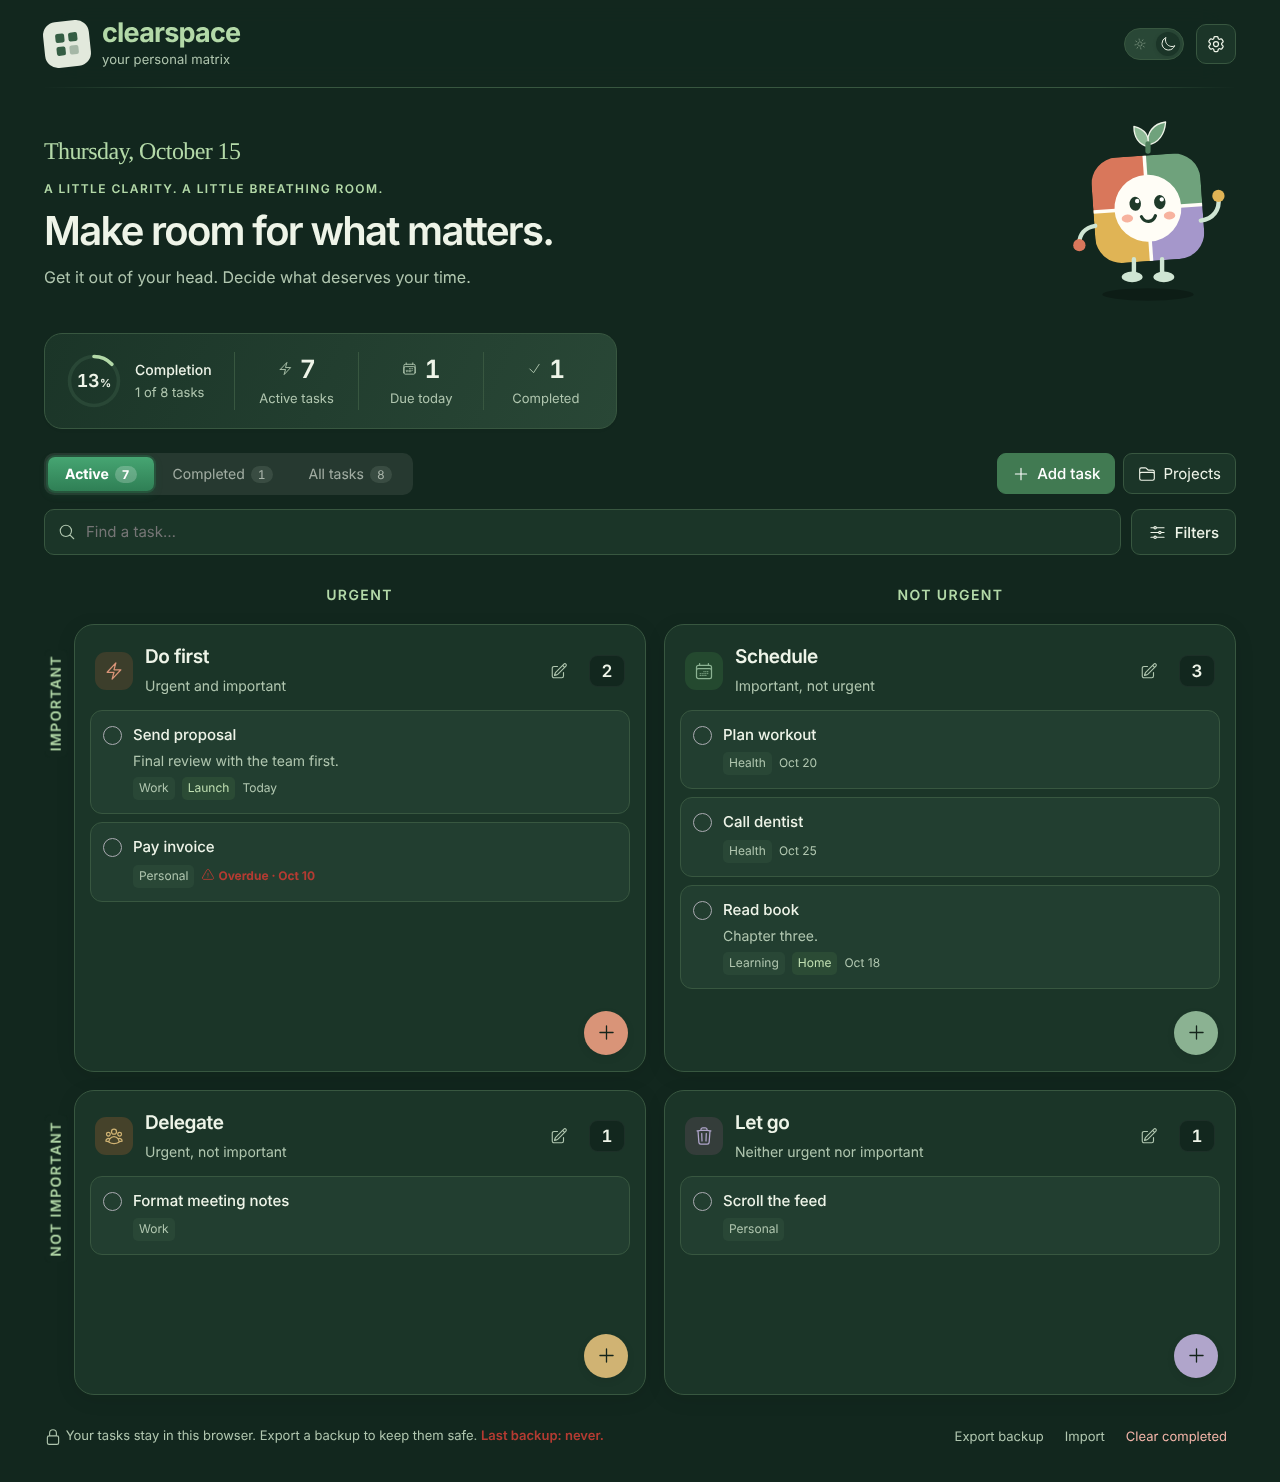
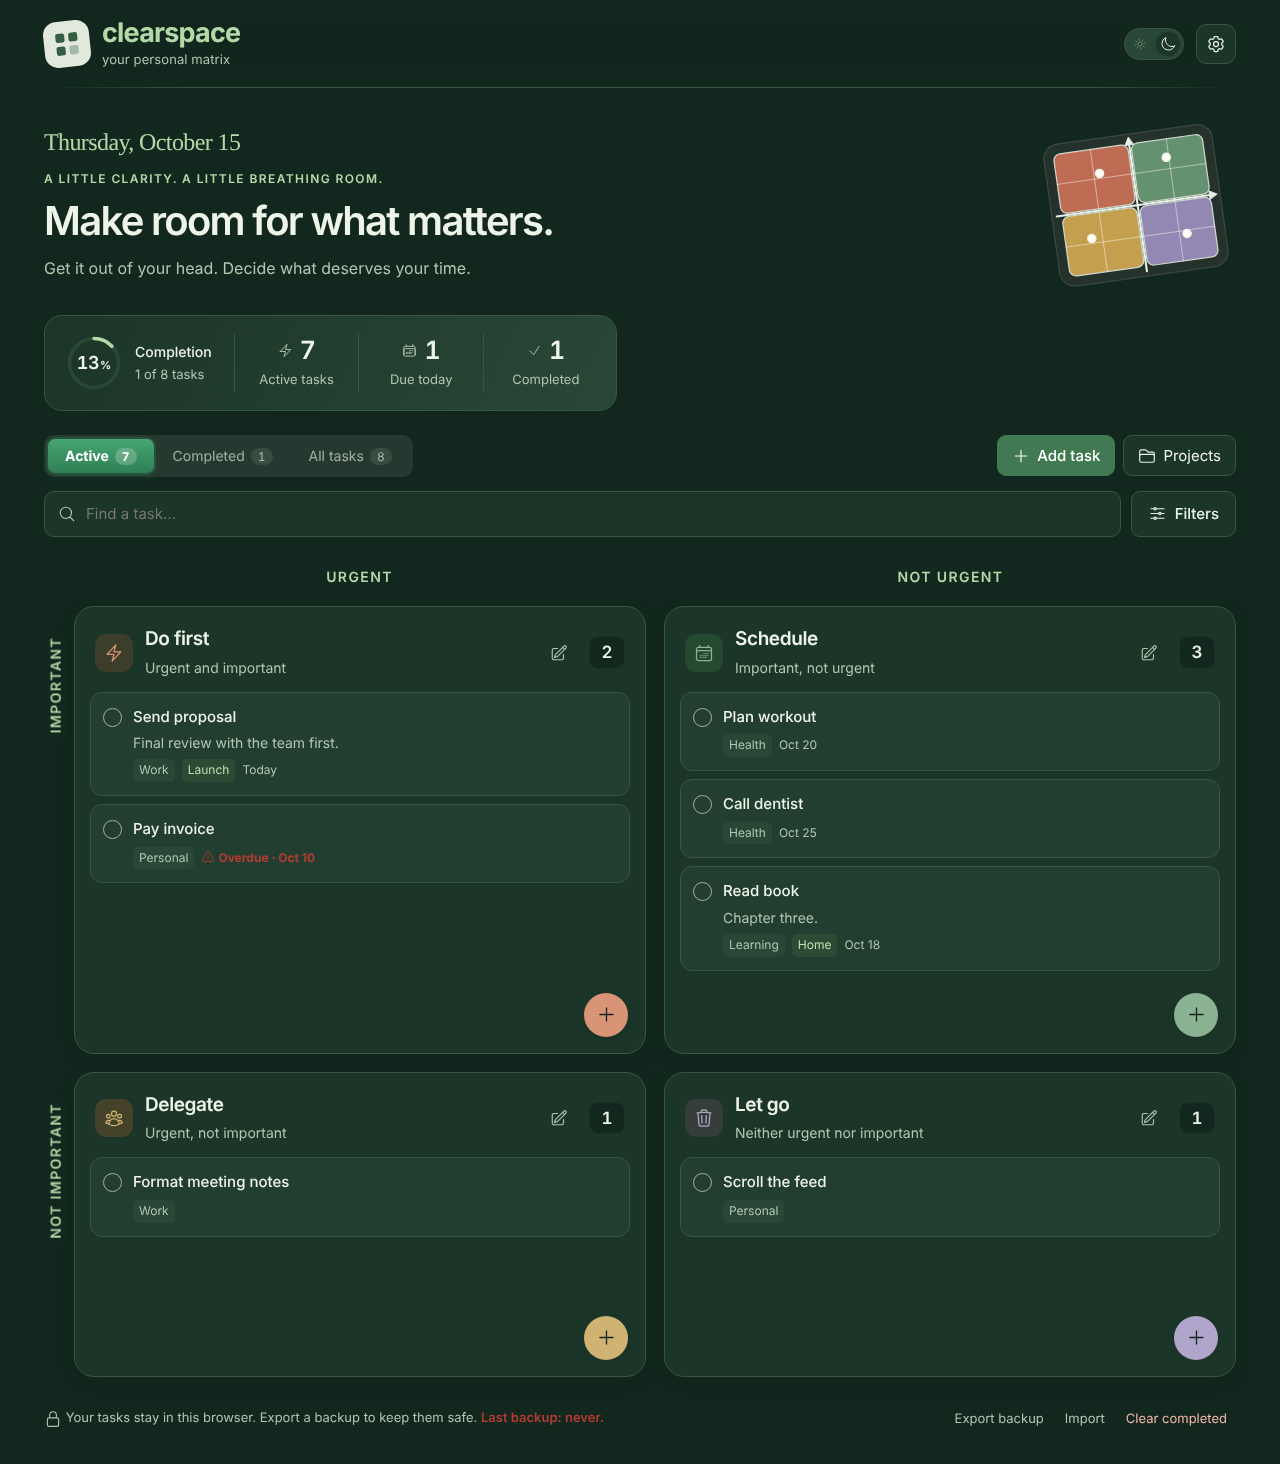
Replace the mascot with a tilted axis board in the app colours
Claude-Session: https://claude.ai/code/session_01Nq72dWvELE8WWzs1VCTzCt

diff --git a/src/styles.css b/src/styles.css
@@ -2646,7 +2646,7 @@ button,
   color: #fff;
 }
 
-/* Header: the date leads on the left, the mascot waves from the right. */
+/* Header: the date leads on the left, a tilted axis board sits on the right. */
 .intro .date {
   display: block;
   margin-bottom: 14px;
@@ -2656,76 +2656,53 @@ button,
 .intro .eyebrow {
   display: block;
 }
-.mascot {
+.axis-board {
   flex-shrink: 0;
-  width: clamp(120px, 15vw, 176px);
+  width: clamp(130px, 17vw, 200px);
   height: auto;
   overflow: visible;
 }
-.mascot :where(rect, ellipse, circle) {
-  stroke: none;
+.axis-card {
+  fill: #fffdf6;
+  stroke: color-mix(in srgb, var(--ink) 14%, transparent);
+  stroke-width: 1.5;
 }
-.mascot-shadow {
+.axis-grid path {
+  stroke: #fffdf6;
+  stroke-width: 1;
+  opacity: 0.55;
+  fill: none;
+}
+.axis-lines path {
+  stroke: #1f3a2a;
+  stroke-width: 2.5;
+  stroke-linecap: round;
+  fill: none;
+}
+.axis-lines path:nth-child(2) {
   fill: #1f3a2a;
-  opacity: 0.12;
+  stroke-width: 1;
 }
-.mascot-leaf {
-  fill: #6fa27c;
+.axis-dots circle {
+  fill: #fffdf6;
 }
-.mascot-leaf-2 {
-  fill: #8fbb97;
+.night .axis-card {
+  fill: #25322b;
 }
-.mascot-stem {
-  fill: #4f7f5c;
+.night .axis-lines path {
+  stroke: #e8f1e9;
+}
+.night .axis-lines path:nth-child(2) {
+  fill: #e8f1e9;
 }
 @media (max-width: 760px) {
-  .mascot {
+  .axis-board {
     display: none;
   }
   .intro .date {
     flex: none;
     font-size: calc(1.375rem * var(--text-scale, 1));
     margin-bottom: 10px;
-  }
-}
-@media (prefers-reduced-motion: no-preference) {
-  .mascot-body {
-    animation: mascot-bob 4.2s ease-in-out infinite;
-    transform-origin: 100px 190px;
-  }
-  .mascot-eyes {
-    animation: mascot-blink 5.5s infinite;
-    transform-origin: 100px 88px;
-    transform-box: view-box;
-  }
-  .mascot-wave {
-    animation: mascot-wave 2.6s ease-in-out infinite;
-    transform-origin: 160px 112px;
-    transform-box: view-box;
-  }
-}
-@keyframes mascot-bob {
-  50% {
-    transform: translateY(-5px);
-  }
-}
-@keyframes mascot-blink {
-  0%,
-  94%,
-  100% {
-    transform: scaleY(1);
-  }
-  97% {
-    transform: scaleY(0.1);
-  }
-}
-@keyframes mascot-wave {
-  0%,
-  100% {
-    transform: rotate(0);
-  }
-  50% {
-    transform: rotate(-9deg);
   }
 }
 
@@ -2748,16 +2725,6 @@ button,
 }
 .tabs .active .tab-count {
   background: #ffffff38;
-}
-.night .mascot-limb {
-  stroke: #cfe5d3;
-}
-.night .mascot-foot {
-  fill: #cfe5d3;
-}
-.night .mascot-shadow {
-  fill: #000;
-  opacity: 0.25;
 }
 
 /* One Filters button opens a panel; applied filters stay visible as chips. */

diff --git a/src/components/AxisBoard.tsx b/src/components/AxisBoard.tsx
@@ -1,0 +1,33 @@
+/** Decorative tilted coordinate board in the four quadrant colours. */
+export function AxisBoard() {
+  return (
+    <svg
+      className="axis-board"
+      viewBox="0 0 240 200"
+      role="presentation"
+      aria-hidden="true"
+      focusable="false"
+    >
+      <g transform="rotate(-8 120 100)">
+        <rect className="axis-card" x="18" y="14" width="204" height="172" rx="18" />
+        <rect x="30" y="26" width="90" height="72" rx="8" fill="#d9775b" opacity="0.85" />
+        <rect x="124" y="26" width="86" height="72" rx="8" fill="#6fa27c" opacity="0.85" />
+        <rect x="30" y="102" width="90" height="72" rx="8" fill="#e0b455" opacity="0.85" />
+        <rect x="124" y="102" width="86" height="72" rx="8" fill="#a597cb" opacity="0.85" />
+        <g className="axis-grid">
+          <path d="M75 26v148M167 26v148M30 62h180M30 138h180" />
+        </g>
+        <g className="axis-lines">
+          <path d="M122 20v160M24 100h192" />
+          <path d="M122 18l-5 9h10zM218 100l-9-5v10z" />
+        </g>
+        <g className="axis-dots">
+          <circle cx="82" cy="56" r="5" />
+          <circle cx="164" cy="48" r="5" />
+          <circle cx="62" cy="132" r="5" />
+          <circle cx="176" cy="142" r="5" />
+        </g>
+      </g>
+    </svg>
+  );
+}

diff --git a/e2e/ux.spec.ts b/e2e/ux.spec.ts
@@ -114,12 +114,15 @@ test('phones get a floating add button and a bottom-sheet filter panel', async (
   await expect(editorDialog(page)).toBeVisible();
 });
 
-test('the date leads on the left and the mascot sits on the right', async ({ page, isMobile }) => {
-  test.skip(!!isMobile, 'The mascot is hidden on phones');
+test('the date leads on the left and the axis board sits on the right', async ({
+  page,
+  isMobile,
+}) => {
+  test.skip(!!isMobile, 'The axis board is hidden on phones');
   await open(page, { matrix: seedMatrix });
   const date = await page.locator('.intro .date').boundingBox();
-  const mascot = await page.locator('.intro .mascot').boundingBox();
+  const mascot = await page.locator('.intro .axis-board').boundingBox();
   expect(date!.x).toBeLessThan(100);
   expect(mascot!.x).toBeGreaterThan(900);
-  await expect(page.locator('.mascot')).toHaveAttribute('aria-hidden', 'true');
+  await expect(page.locator('.axis-board')).toHaveAttribute('aria-hidden', 'true');
 });

diff --git a/src/App.tsx b/src/App.tsx
@@ -10,7 +10,7 @@ import { useMatrix } from './lib/useMatrix';
 import { usePreferences } from './lib/usePreferences';
 import { useToday } from './lib/useToday';
 import { Icon } from './components/Icon';
-import { Mascot } from './components/Mascot';
+import { AxisBoard } from './components/AxisBoard';
 import { Modal } from './components/Modal';
 import { AppHeader } from './features/app/AppHeader';
 import type { Menu } from './features/app/AppHeader';
@@ -177,7 +177,7 @@ export default function App() {
               <h1 id="matrixTitle">Make room for what matters.</h1>
               <p id="matrixSubtitle">Get it out of your head. Decide what deserves your time.</p>
             </div>
-            <Mascot />
+            <AxisBoard />
           </section>
           {matrix.tasks.length > 0 && <TaskOverview summary={summary} />}
           {matrix.tasks.length === 0 && (
